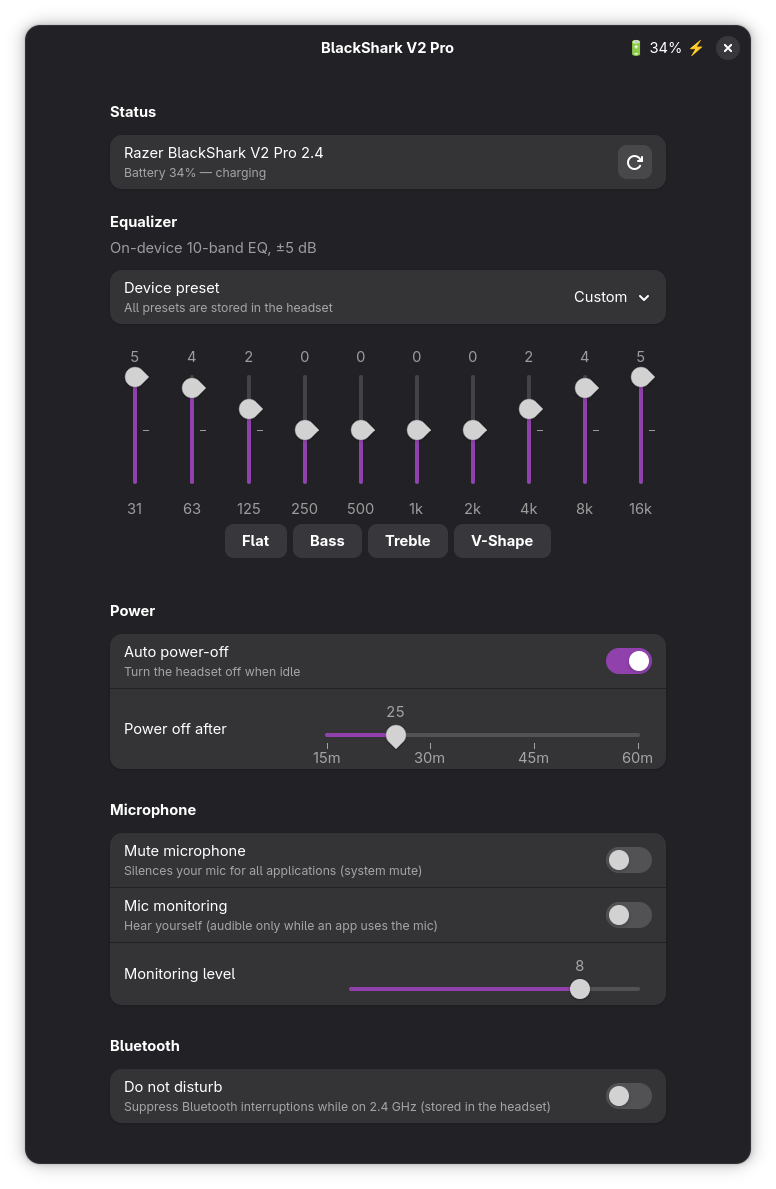
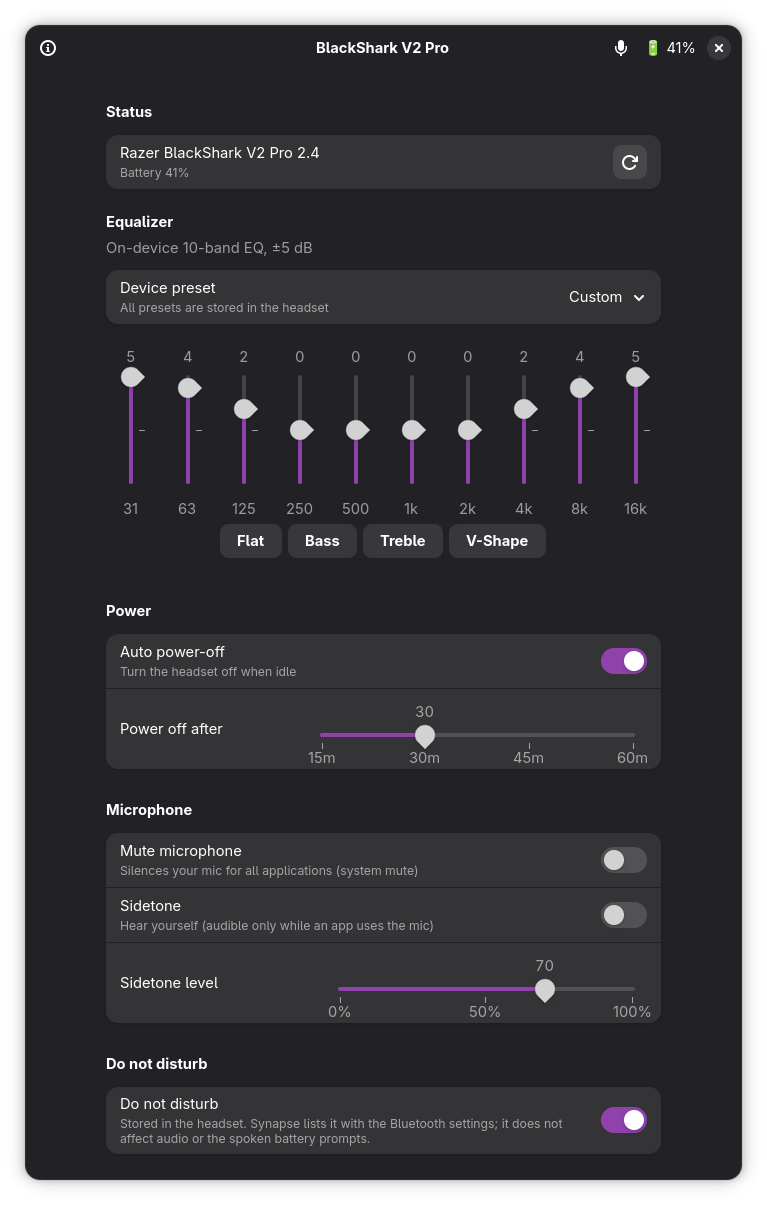
Update README and screenshot, fix locale-dependent mute check

diff --git a/README.md b/README.md
@@ -16,16 +16,18 @@ headset (USB `1532:0555`) on Linux, talking to the OpenRazer daemon.
   - The preset selector follows the headset's EQ button in both directions
   - Quick curve buttons (Flat / Bass / Treble / V-Shape) for the custom preset
 - Auto power-off timer (off / 15–60 minutes, by-minute slider)
-- Microphone: system mute toggle, mic monitoring (sidetone) on/off and level 0–10
-- Bluetooth "Do Not Disturb" toggle (dual-mode 2.4 GHz + Bluetooth)
+- Microphone: system mute toggle, sidetone (hear yourself) on/off and level 0–100 %
+- State of the headset's own mute button, shown in the header bar
+- "Do Not Disturb" toggle (stored in the headset)
+- Device info popover: serial, firmware, hardware id and driver version, with a copy button
 - Auto-reconnect when the headset is plugged in / powered on
 
 ## Requirements
 
 | Dependency | Notes |
 |---|---|
-| **OpenRazer** — BlackShark V2 Pro full-hardware-support branch | The stock OpenRazer release does **not** support this headset yet. Install driver, daemon and Python library from the feature branch (`add-blackshark-v2-pro-2.4`) and make sure the `openrazer-daemon` user service is running and your user is in the `plugdev` group. |
-| Python 3 with GTK4 + libadwaita bindings | Fedora: `python3-gobject gtk4 libadwaita` · Debian/Ubuntu: `python3-gi gir1.2-gtk-4.0 gir1.2-adw-1` · Arch: `python-gobject gtk4 libadwaita` |
+| **OpenRazer** — BlackShark V2 Pro full-hardware-support branch | No OpenRazer release supports this headset yet (as of 3.12.4); support is pending in [PR #2862](https://github.com/openrazer/openrazer/pull/2862). Install driver, daemon and Python library from that PR's branch ([`add-blackshark-v2-pro-2.4`](https://github.com/FalconHeavy57/openrazer/tree/add-blackshark-v2-pro-2.4)) and make sure the `openrazer-daemon` user service is running and your user is in the `plugdev` group. |
+| Python 3 with GTK4 + libadwaita **1.4 or newer** bindings | Fedora: `python3-gobject gtk4 libadwaita` · Debian/Ubuntu: `python3-gi gir1.2-gtk-4.0 gir1.2-adw-1` · Arch: `python-gobject gtk4 libadwaita`. Debian 12 and Ubuntu 22.04 ship an older libadwaita; Debian 13 or Ubuntu 24.04 (or newer) work. |
 | `pactl` (PipeWire or PulseAudio) | Only needed for the system mic-mute toggle; everything else works without it. |
 
 ## Install
@@ -53,8 +55,8 @@ Removes the app and the desktop entry.
   dongle plugged in and the headset powered on?
 - **Still not found after reinstalling/updating the OpenRazer driver** — restart the GUI (the
   daemon restart drops its connection); if that is not enough, replug the dongle.
-- **Mic monitoring is silent** — device behaviour: the sidetone is only audible while an
-  application actually uses the microphone (e.g. a voice call).
+- **Sidetone is silent** — device behaviour: it is only audible while an application actually
+  uses the microphone (e.g. a voice call).
 - **Game/Music/Movie show no EQ sliders** — their curves are stored in headset ROM and cannot be
   read out; the sliders are shown for the game EQs (curves read live from the headset) and Custom
   (editable).
@@ -66,3 +68,7 @@ Removes the app and the desktop entry.
 ## License
 
 GPL-2.0-or-later (see `LICENSE`) — the app links against OpenRazer's GPL-licensed Python library.
+
+## Disclaimer
+
+⚠ Built with AI assistance. Provided as-is, without warranty. Use at your own risk.
